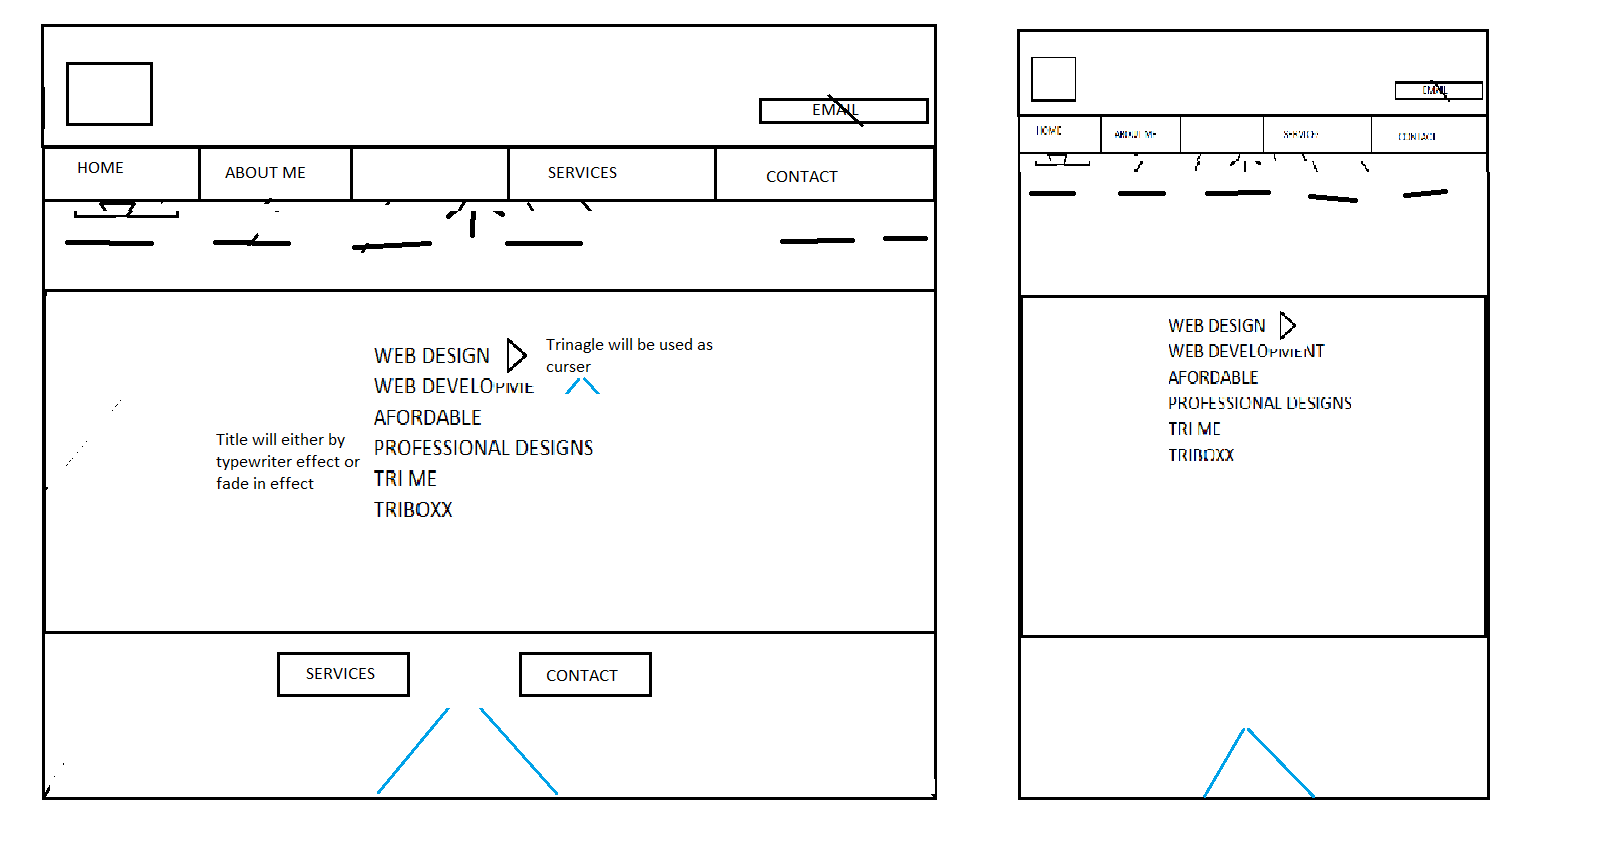
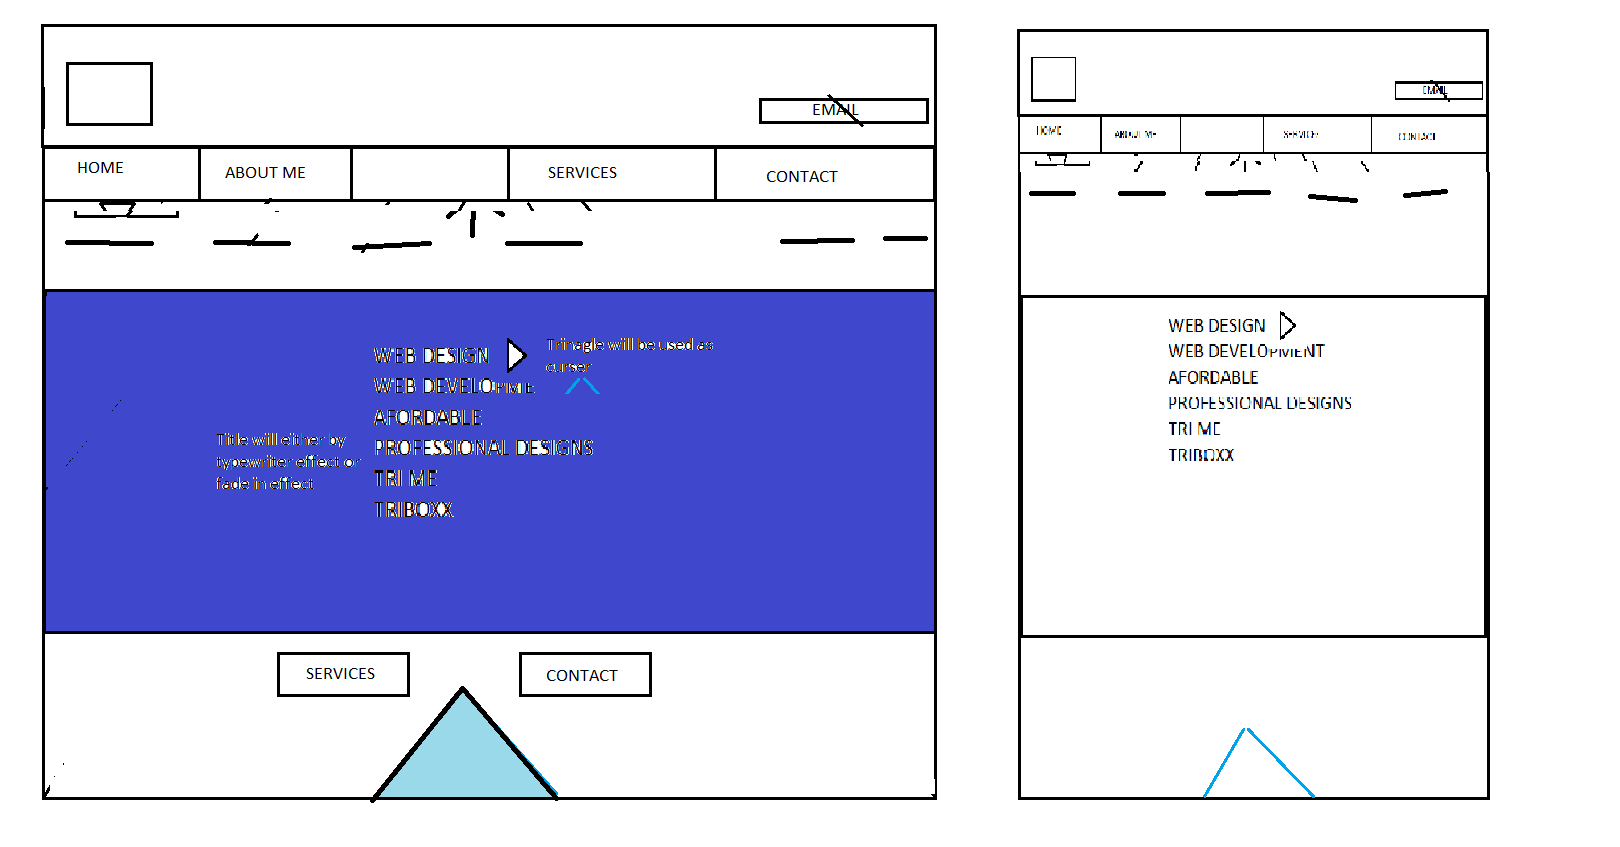
updates

Changed region(s): [[0.0309, 0.3377, 0.5864, 0.7674], [0.216, 0.7981, 0.3395, 0.9516]]

diff --git a/index.html b/index.html
@@ -43,7 +43,7 @@
 				
 					<!-- HOME PAGE -->
 				<div class="st-scroll">
-					<img src="../myWebsite/images/newbanner.jpg" alt="" width="1920px" height="1125px" class="box">
+					<img src="../myWebsite/images/rsz_banner-image.jpg" alt="" width="1920px" height="1125px" class="box">
 					<section class="st-panel" id="st-panel-1">
 						<div class="st-deco"></div>
 							

diff --git a/css/style.css b/css/style.css
@@ -195,12 +195,12 @@ body {
 }*/
 
 img {
-    background-image: url("../images/newbanner.jpg");
+    background-image: url("../images/rsz_banner-image.jpg");
 	/*background-position: center;*/
 	background-repeat: no-repeat;
 	background-size: cover;
 	position: relative;
-	top: 103px;
+	top: 0;
 	max-width: 100%;
 	height: auto;
 }
